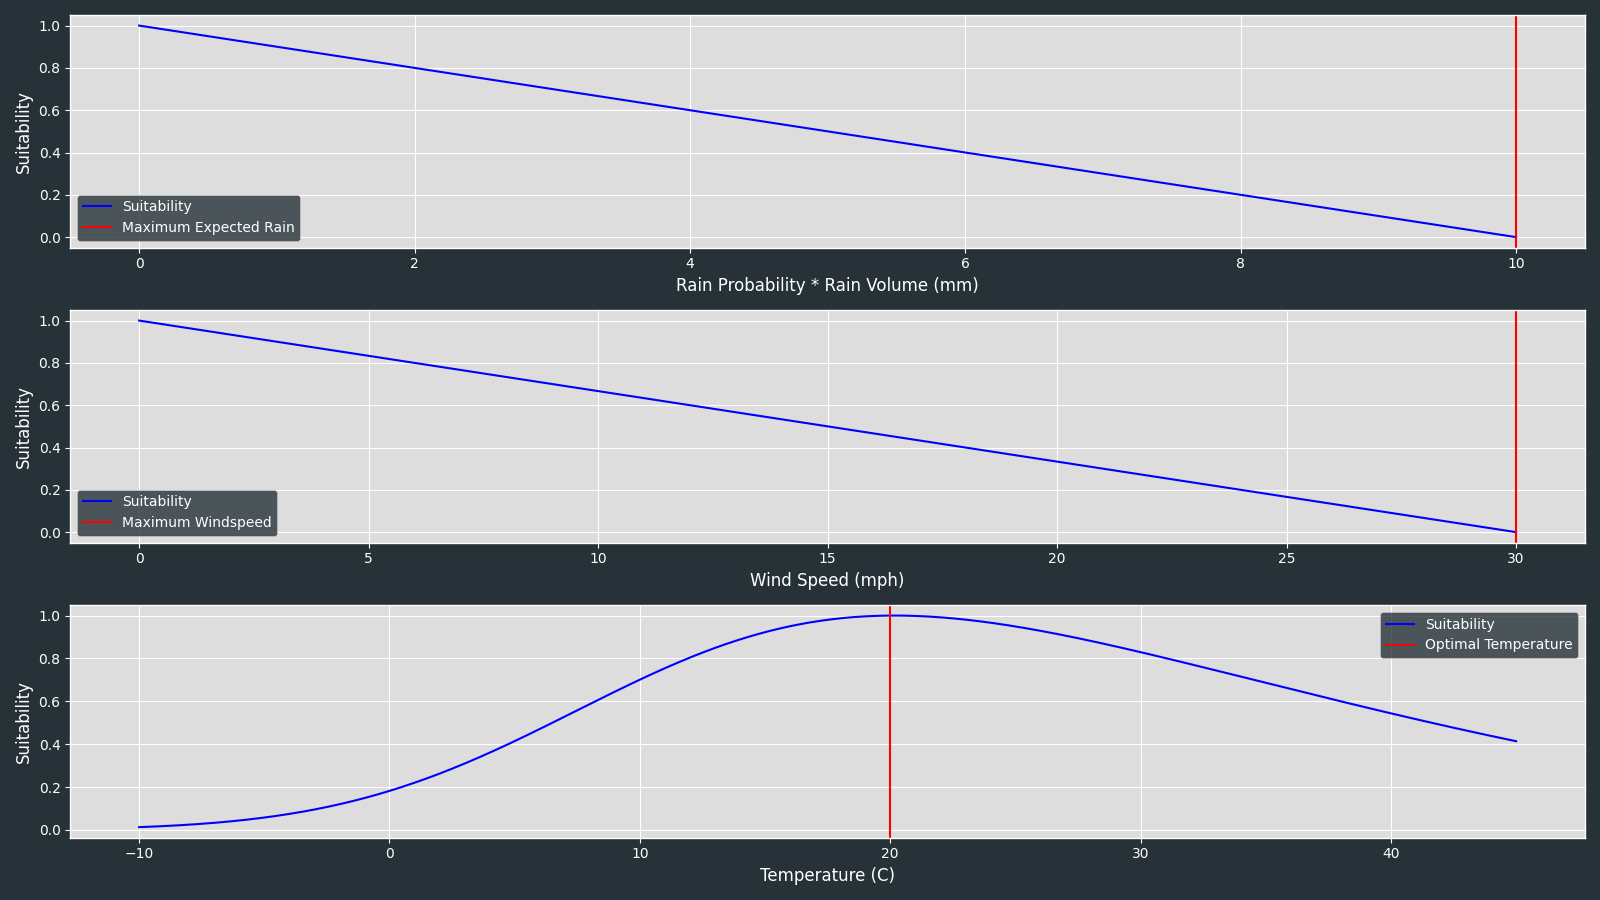
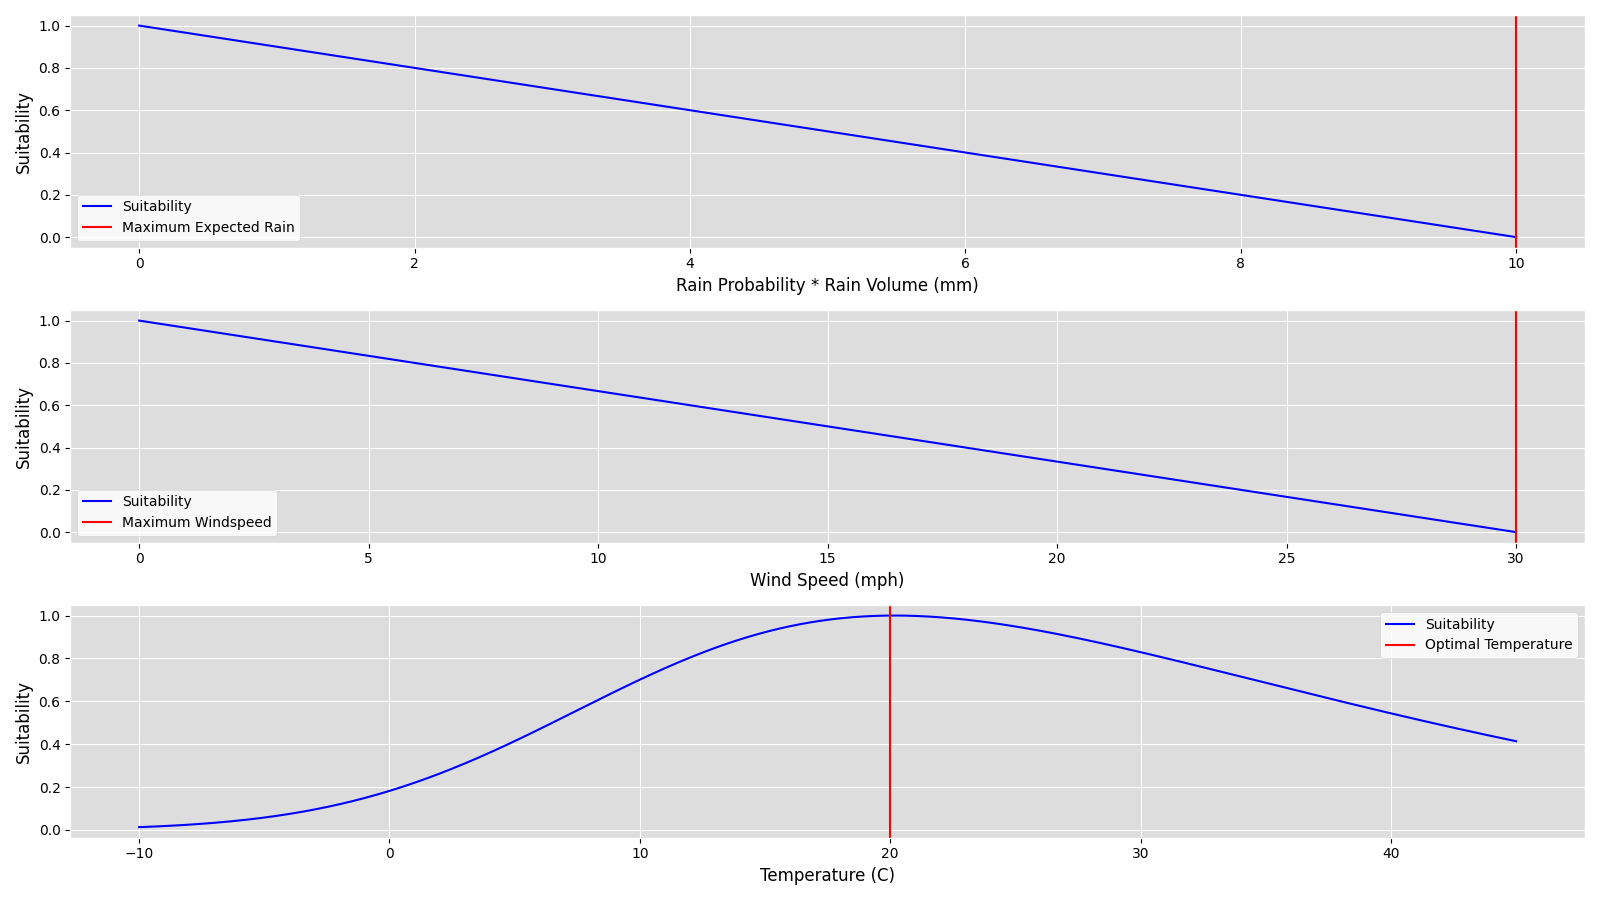
swapped plots to white

Changed region(s): [[0.0, 0.0, 1.0, 1.0]]

diff --git a/cycling_forecast/weather_metrics.py b/cycling_forecast/weather_metrics.py
@@ -5,7 +5,7 @@ import requests
 
 from cycling_forecast.constants import *
 
-plt.style.use('https://raw.githubusercontent.com/RobGeada/stylelibs/main/material.mplstyle')
+plt.style.use('https://raw.githubusercontent.com/RobGeada/stylelibs/main/material_white.mplstyle')
 
 # === WEATHER API PARSING ==========================================================================
 # grab weather at specified coordinates
